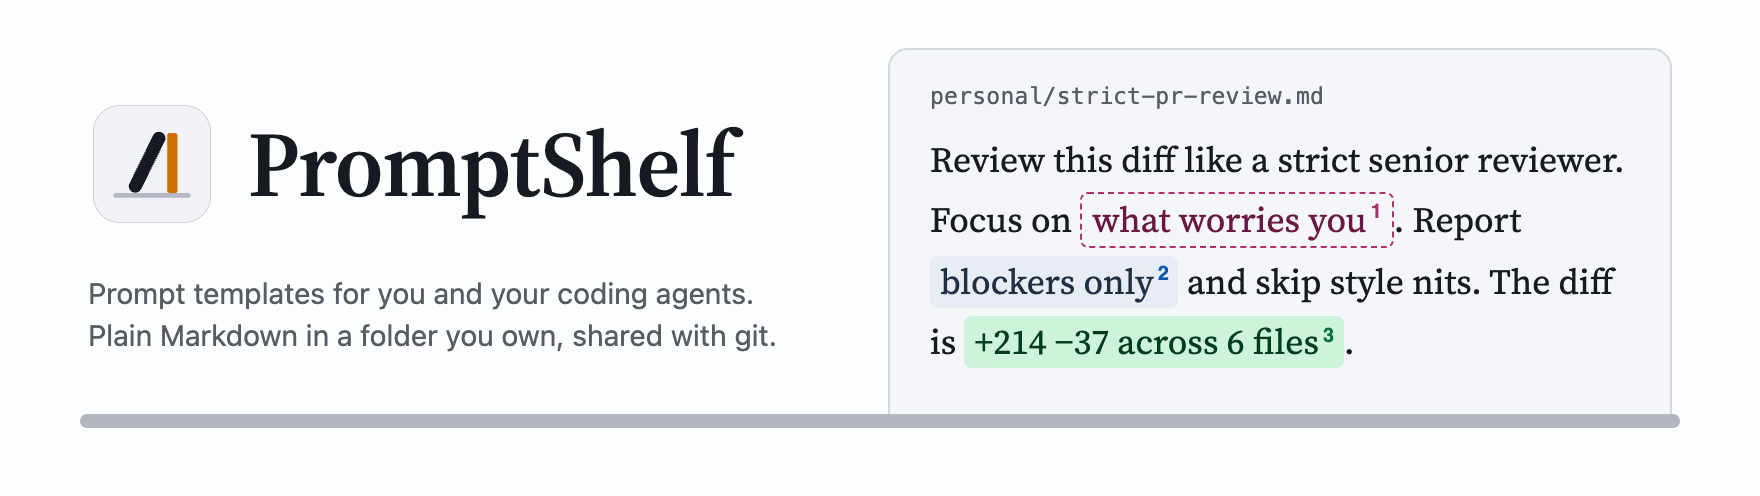
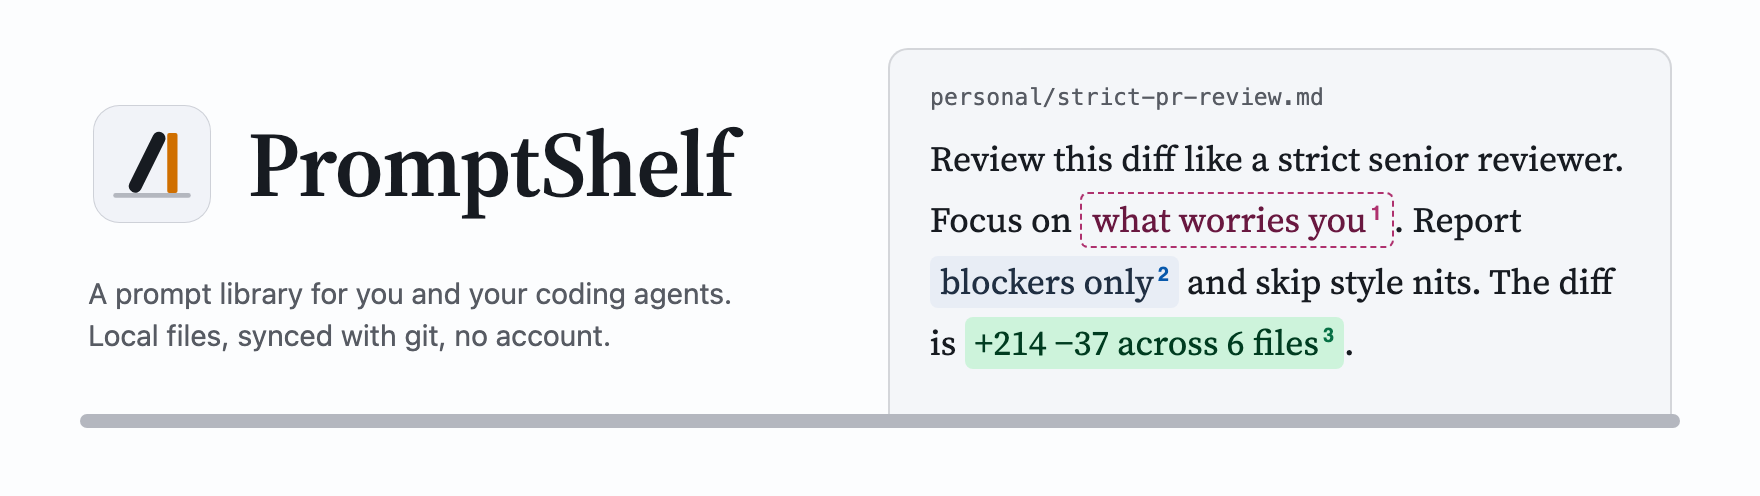
docs: use the shorter header subtitle
The header now says: a prompt library for you and your coding
agents. Local files, synced with git, no account.

diff --git a/docs/images/header.html b/docs/images/header.html
@@ -111,7 +111,7 @@
       <img class="icon-dark" src="../design/logo/promptshelf-icon-dark.svg" alt="" />
       <h1>PromptShelf</h1>
     </div>
-    <p class="tag">Prompt templates for you and your coding agents.<br />Plain Markdown in a folder you own, shared with git.</p>
+    <p class="tag">A prompt library for you and your coding agents.<br />Local files, synced with git, no account.</p>
   </div>
 
   <div class="card">

diff --git a/README.md b/README.md
@@ -1,6 +1,6 @@
 <picture>
   <source media="(prefers-color-scheme: dark)" srcset="docs/images/header-dark.png" />
-  <img src="docs/images/header-light.png" alt="PromptShelf: prompt templates for you and your coding agents. Plain Markdown in a folder you own, shared with git. A prompt file with three filled blanks sits on a shelf." width="880" />
+  <img src="docs/images/header-light.png" alt="PromptShelf: a prompt library for you and your coding agents. Local files, synced with git, no account. A prompt file with three filled blanks sits on a shelf." width="880" />
 </picture>
 
 [![crates.io](https://img.shields.io/crates/v/promptshelf)](https://crates.io/crates/promptshelf)
@@ -52,11 +52,12 @@ Agents that read [`llms.txt`](llms.txt) get a short summary and links to both.
 ```sh
 brew install etsoftwarestudio/tap/promptshelf   # macOS and Linux
 cargo install --locked promptshelf              # any system with Rust
+npx promptshelf-cli --help                      # try it without installing
 ```
 
 Binaries for macOS, Linux and Windows are on the [releases page](https://github.com/ETSoftwareStudio/promptshelf/releases/latest).
 
-Each install puts two commands on your PATH: `shelf`, and `promptshelf` for systems where another tool owns `shelf`.
+Each install puts two commands on your PATH: `shelf`, and `promptshelf` for systems where another tool owns `shelf`. The npm package is named `promptshelf-cli`, and it adds a third command with that name so `npx` can run it.
 
 The desktop app has no download yet. Build it from [`app/`](app/README.md).
 
